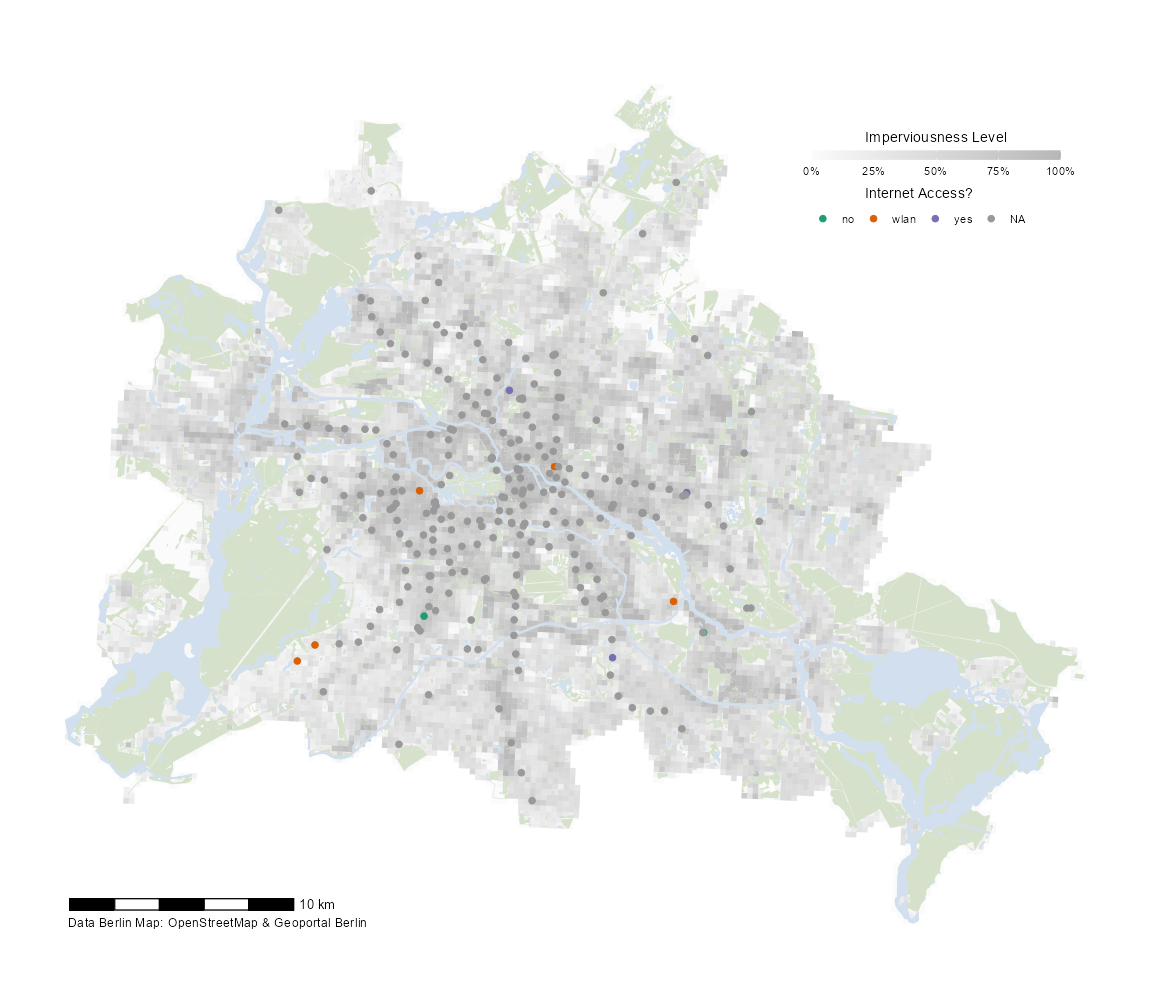
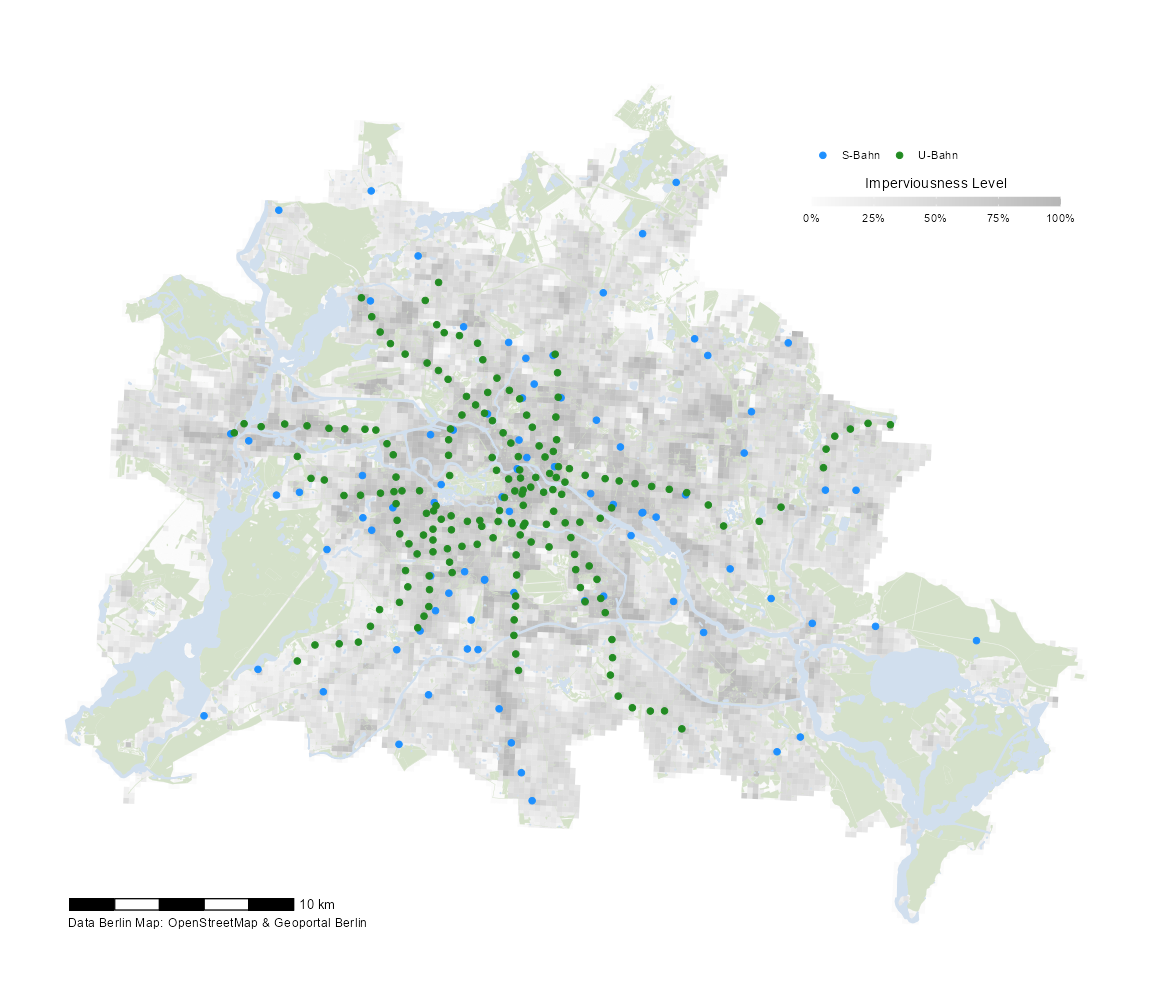
update readme
.. still issue with the globe though

diff --git a/README.md b/README.md
@@ -1,7 +1,7 @@
 
 <!-- README.md is generated from README.Rmd. Please edit that file -->
 
-# d6berlin
+# d6berlin <img src='man/figures/hexlogo.png' align="right" height="151.5" /></a>
 
 <!-- badges: start -->
 <!-- badges: end -->
@@ -131,10 +131,9 @@ variables from your data set:
 
 ``` r
 map + 
-  geom_sf(data = sf_metro, aes(color = internet_access), size = 2) +
-  scale_color_brewer(palette = "Dark2", 
-                     name = "Internet Access?",
-                     na.value = "grey60") +
+  geom_sf(data = sf_metro, aes(color = type), size = 2) +
+  scale_color_discrete(type = c("dodgerblue", "forestgreen"), 
+                     name = NULL) +
   guides(color = guide_legend(direction = "horizontal",
                               title.position = "top", 
                               title.hjust = .5))
@@ -200,15 +199,15 @@ Session Info
 
 ``` r
 Sys.time()
-#> [1] "2021-09-27 12:23:19 CEST"
+#> [1] "2021-10-04 16:42:30 CEST"
 git2r::repository()
-#> Local:    main C:/Users/DataVizard/PopDynIZW Dropbox/GeoData/d6berlin
+#> Local:    main U:/GUEST/Abteilung6/People/Scherer_Cedric/d6berlin
 #> Remote:   main @ origin (https://github.com/EcoDynIZW/d6berlin.git)
-#> Head:     [9020e1d] 2021-05-04: :memo: update readme
+#> Head:     [5eb6523] 2021-10-04: add hex logo
 sessionInfo()
-#> R version 4.1.0 (2021-05-18)
+#> R version 4.1.1 (2021-08-10)
 #> Platform: x86_64-w64-mingw32/x64 (64-bit)
-#> Running under: Windows 10 x64 (build 19043)
+#> Running under: Windows 10 x64 (build 19041)
 #> 
 #> Matrix products: default
 #> 
@@ -216,7 +215,6 @@ sessionInfo()
 #> [1] LC_COLLATE=German_Germany.1252  LC_CTYPE=German_Germany.1252   
 #> [3] LC_MONETARY=German_Germany.1252 LC_NUMERIC=C                   
 #> [5] LC_TIME=German_Germany.1252    
-#> system code page: 65001
 #> 
 #> attached base packages:
 #> [1] stats     graphics  grDevices utils     datasets  methods   base     
@@ -228,29 +226,28 @@ sessionInfo()
 #> loaded via a namespace (and not attached):
 #>  [1] Rcpp_1.0.7          rnaturalearth_0.1.0 lattice_0.20-44    
 #>  [4] png_0.1-7           class_7.3-19        assertthat_0.2.1   
-#>  [7] digest_0.6.28       utf8_1.2.2          R6_2.5.1           
-#> [10] stats4_4.1.0        evaluate_0.14       e1071_1.7-9        
-#> [13] highr_0.9           pillar_1.6.3        rlang_0.4.11       
+#>  [7] digest_0.6.27       utf8_1.2.2          R6_2.5.1           
+#> [10] stats4_4.1.1        evaluate_0.14       e1071_1.7-9        
+#> [13] highr_0.9           pillar_1.6.2        rlang_0.4.11       
 #> [16] raster_3.4-13       rmarkdown_2.11      textshaping_0.3.5  
 #> [19] labeling_0.4.2      webshot_0.5.2       rgdal_1.5-27       
 #> [22] htmlwidgets_1.5.4   munsell_0.5.0       proxy_0.4-26       
-#> [25] compiler_4.1.0      xfun_0.26           pkgconfig_2.0.3    
-#> [28] base64enc_0.1-3     rgeos_0.5-8         htmltools_0.5.2    
+#> [25] compiler_4.1.1      xfun_0.26           pkgconfig_2.0.3    
+#> [28] base64enc_0.1-3     rgeos_0.5-7         htmltools_0.5.2    
 #> [31] tidyselect_1.1.1    tibble_3.1.4        codetools_0.2-18   
 #> [34] mapview_2.10.0      fansi_0.5.0         withr_2.4.2        
-#> [37] crayon_1.4.1        wk_0.5.0            grid_4.1.0         
+#> [37] crayon_1.4.1        wk_0.5.0            grid_4.1.1         
 #> [40] satellite_1.0.2     lwgeom_0.2-7        gtable_0.3.0       
-#> [43] lifecycle_1.0.1     DBI_1.1.1           git2r_0.28.0       
+#> [43] lifecycle_1.0.0     DBI_1.1.1           git2r_0.28.0       
 #> [46] magrittr_2.0.1      units_0.7-2         scales_1.1.1       
 #> [49] KernSmooth_2.23-20  stringi_1.7.4       farver_2.1.0       
 #> [52] leaflet_2.0.4.1     sp_1.4-5            ellipsis_0.3.2     
 #> [55] ragg_1.1.3          generics_0.1.0      vctrs_0.3.8        
-#> [58] RColorBrewer_1.1-2  s2_1.0.6            tools_4.1.0        
-#> [61] ggspatial_1.1.5     leafem_0.1.6        glue_1.4.2         
-#> [64] purrr_0.3.4         crosstalk_1.1.1     abind_1.4-5        
-#> [67] parallel_4.1.0      fastmap_1.1.0       yaml_2.2.1         
-#> [70] colorspace_2.0-2    stars_0.5-3         classInt_0.4-3     
-#> [73] knitr_1.34
+#> [58] s2_1.0.6            tools_4.1.1         ggspatial_1.1.5    
+#> [61] leafem_0.1.6        glue_1.4.2          purrr_0.3.4        
+#> [64] crosstalk_1.1.1     abind_1.4-5         parallel_4.1.1     
+#> [67] fastmap_1.1.0       yaml_2.2.1          colorspace_2.0-2   
+#> [70] stars_0.5-3         classInt_0.4-3      knitr_1.34
 ```
 
 </details>
